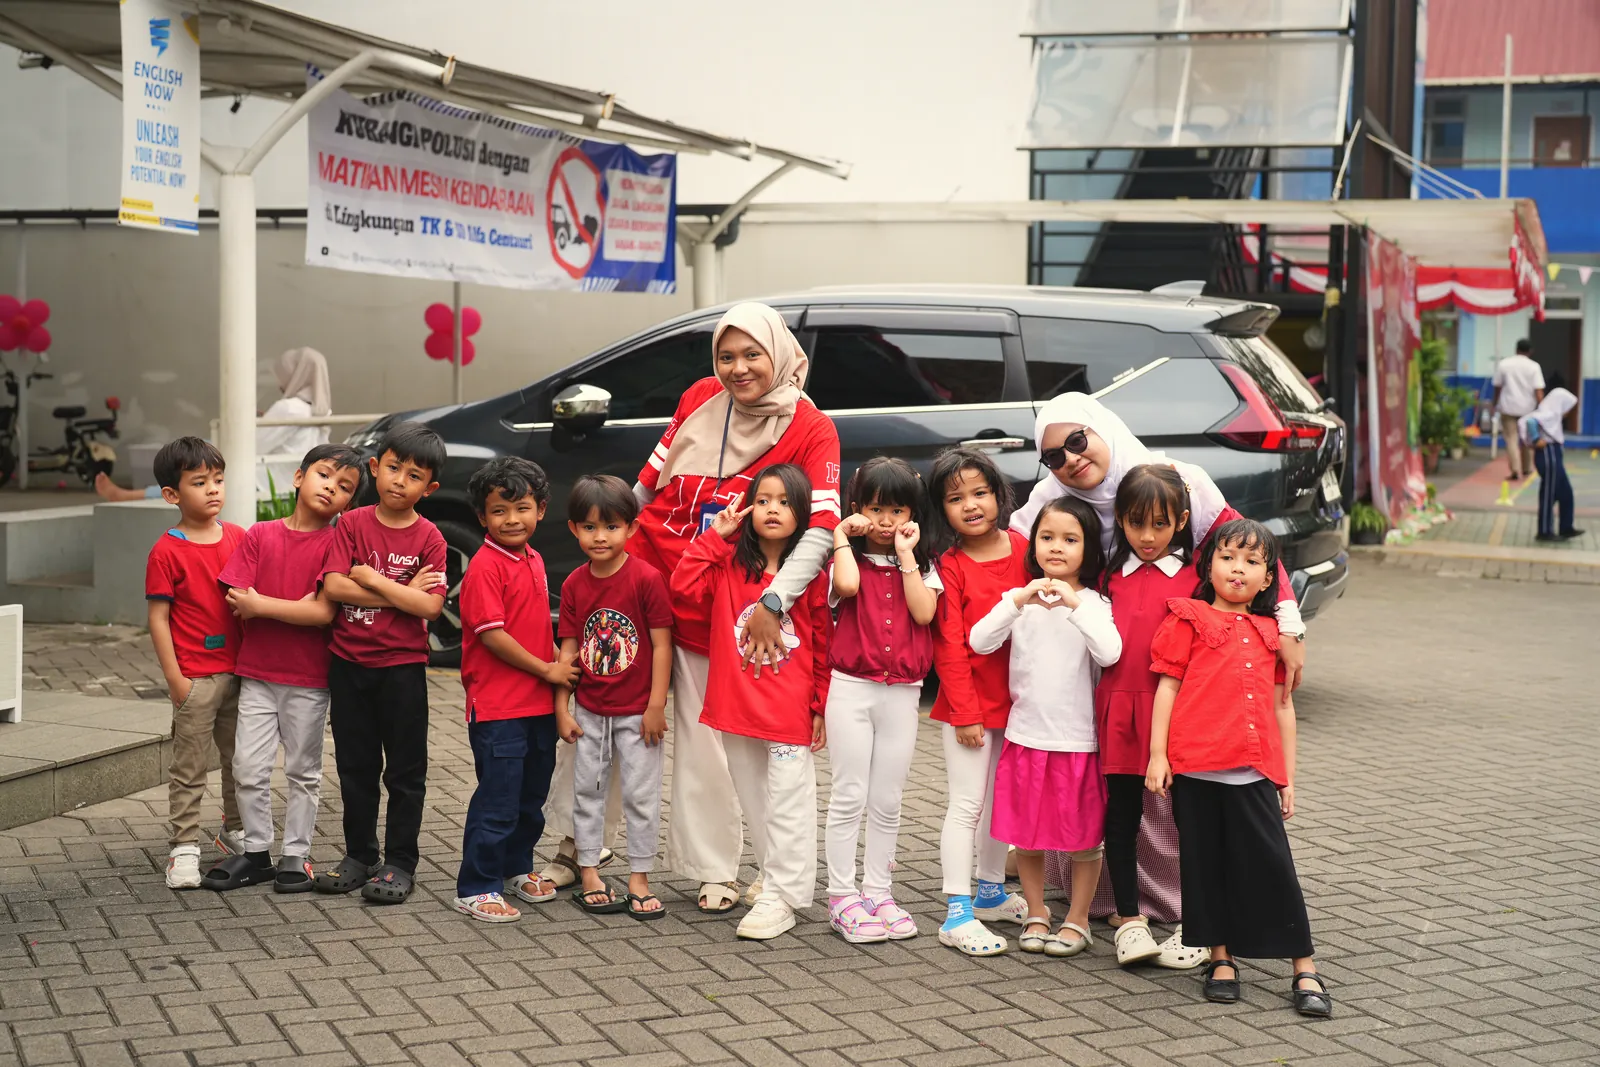
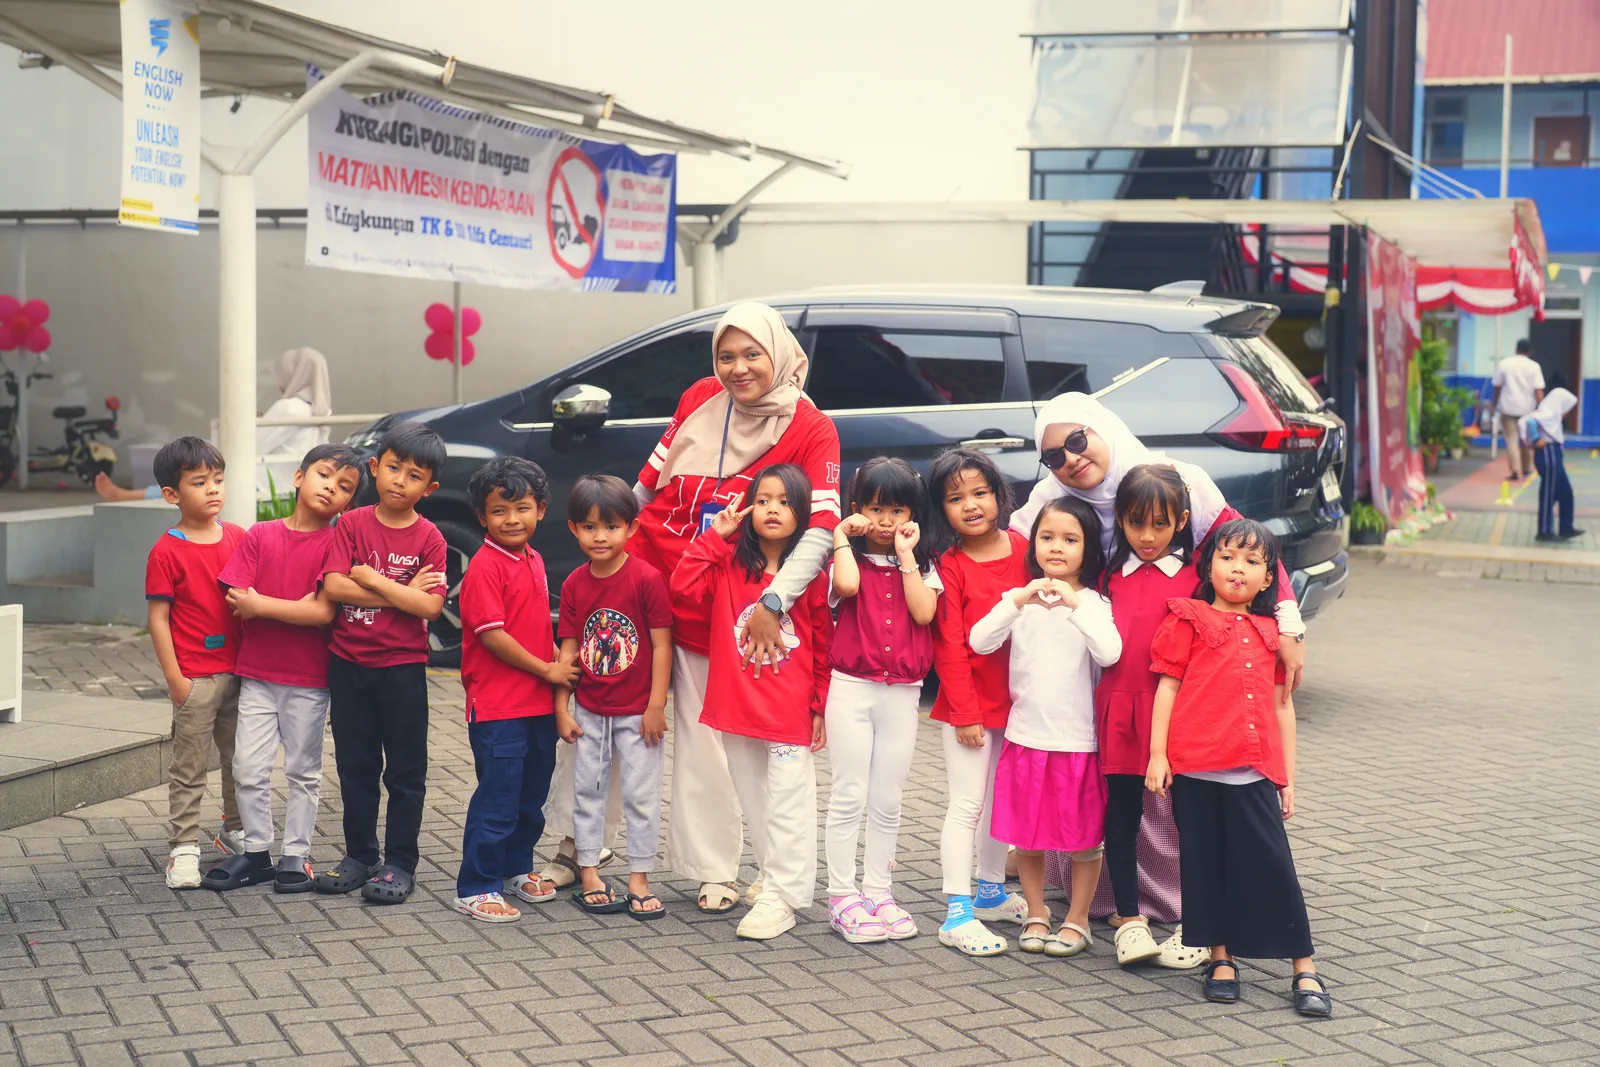
Foto perpustakaan, foto Bunda Syifa, retouch Mengapa & Program lebih kuat dan terang
Claude-Session: https://claude.ai/code/session_01CU3AJ99QmM7SmDPhACpjte

diff --git a/src/components/ProfilPendidik.jsx b/src/components/ProfilPendidik.jsx
@@ -35,7 +35,7 @@ const TIM_PENDIDIK = [
   { name: 'Yulis Triastuti, S.Pd.', role: 'Guru Kelas PG A', color: 'kelas', almamater: UNISBA, image: photo('yulis') },
   { name: 'Najma Ayunda Fauziah, S.Pd.', role: 'Co-Teacher PG A', color: 'co', almamater: UNISBA },
   { name: 'Icha Agustina, S.Pd', role: 'Guru Kelas PG B', color: 'kelas', almamater: UNISBA, image: photo('icha') },
-  { name: 'Syifa Pauziah, S.Pd', role: 'Co-Teacher PG B', color: 'co', almamater: UNISBA },
+  { name: 'Syifa Pauziah, S.Pd', role: 'Co-Teacher PG B', color: 'co', almamater: UNISBA, image: photo('syifa') },
   { name: 'Hasna Afifah Nuraini, S.Pd.', role: 'Guru Kelas TK A1', color: 'kelas', almamater: UNISBA, image: photo('afi') },
   { name: 'Via Eka Lestari, S.Pd.', role: 'Co-Teacher TK A1', color: 'co', almamater: UNISBA, image: photo('via') },
   { name: 'Heni Rusniawati Hidayat, S.Mb', role: 'Guru Kelas TK A2', color: 'kelas', almamater: 'S1 Manajemen & Bisnis, Universitas Telkom', image: photo('heni') },

diff --git a/src/components/Galeri.jsx b/src/components/Galeri.jsx
@@ -52,6 +52,7 @@ const DEFAULT_ITEMS = [
   { title: 'Wahana Seru', desc: 'Riang gembira bersama teman', img: FOTO.tsbWahana2 },
   { title: 'Gaya Kecil di Panggung', desc: 'Penampilan ananda di Red Cherry', img: FOTO.ramadhanBendera },
   { title: 'Kostum Burung Kecil', desc: 'Tampil menggemaskan di panggung Parents Day', img: FOTO.parentsKostumBurung },
+  { title: 'Perpustakaan Sekolah', desc: 'Pojok baca yang nyaman untuk menumbuhkan cinta buku', img: FOTO.sekolahPerpus2 },
   { title: 'Wisata Kandang', desc: 'Ayam, kambing, dan banyak rasa ingin tahu', img: FOTO.taniKotaAyam },
 ];
 

diff --git a/src/data/photos.js b/src/data/photos.js
@@ -59,6 +59,8 @@ export const FOTO = {
   sekolahAyunan: f('sekolah-ayunan'),
   sekolahAreaBermain: f('sekolah-area-bermain'),
   sekolahGedung: f('sekolah-gedung'),
+  sekolahPerpus1: f('sekolah-perpus-1'),
+  sekolahPerpus2: f('sekolah-perpus-2'),
   // Versi retouch (warna hangat, kontras & cahaya seragam) untuk section Mengapa Memilih Kami & Program
   artMelukis1Edit: f('art-melukis-1-edit'),
   agustusFotoBersamaEdit: f('agustus-foto-bersama-edit'),

diff --git a/src/components/Fasilitas.jsx b/src/components/Fasilitas.jsx
@@ -31,7 +31,7 @@ const FACILITIES = [
   {
     title: 'Perpustakaan',
     desc: 'Koleksi buku cerita dan buku pelajaran yang beragam.',
-    image: 'https://images.unsplash.com/photo-1507842217343-583bb7270b66?auto=format&fit=crop&w=1000&q=70',
+    image: FOTO.sekolahPerpus1,
     theme: { bar: 'bg-amber-400', glow: 'hover:shadow-amber-200/80', grad: 'from-amber-950/90 via-amber-900/40' },
   },
   {
